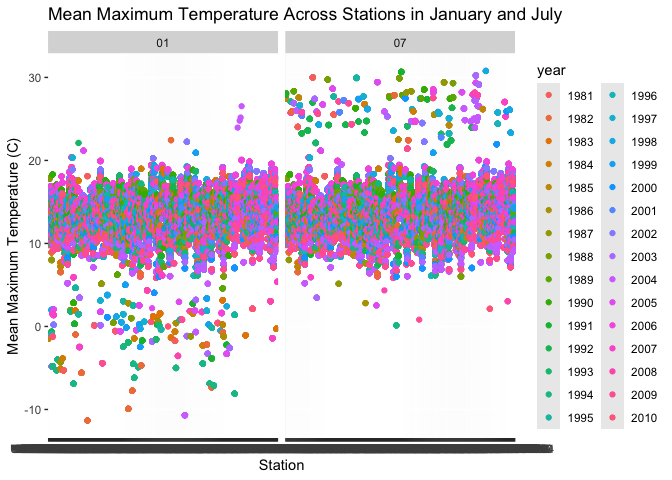
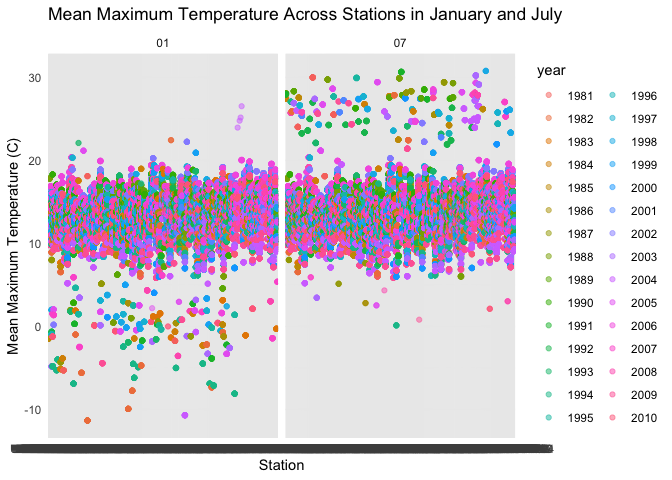
First attempt at problem 2. Imported and merge NHANES dataset. Made a reader-friendly table and a three-panel plot.

Changed region(s): [[0.0625, 0.0625, 0.8438, 0.9375], [0.875, 0.1562, 0.9375, 0.9062], [0.2188, 0.625, 0.2812, 0.6875]]

diff --git a/p8105_hw3_mh4589.md b/p8105_hw3_mh4589.md
@@ -3,25 +3,6 @@ p8105_hw3_mh4589
 My An Huynh
 2024-10-04
 
-Do some data cleaning. Create separate variables for year, month, and
-day. Ensure observations for temperature, precipitation, and snowfall
-are given in reasonable units. For snowfall, what are the most commonly
-observed values? Why? Make a two-panel plot showing the average max
-temperature in January and in July in each station across years. Is
-there any observable / interpretable structure? Any outliers? Make a
-two-panel plot showing (i) tmax vs tmin for the full dataset (note that
-a scatterplot may not be the best option); and (ii) make a plot showing
-the distribution of snowfall values greater than 0 and less than 100
-separately by year.
-
-The dataset NY NOAA provies information on temperature, snowfall, snow
-depth and precipitation everyday starting from 1981 at different weather
-stations in NY. There is extensive
-
-There are `nrow(ny_noaa)` rows and `ncol(ny_noaa)` columns. The most
-common snowfall is 0. This is because snow is commonly observed on
-certain days during winter months, but not the rest of the year.
-
 ``` r
 ny_noaa_df <- ny_noaa |> 
   separate(date, into = c("year", "month", "day"), sep = "-")
@@ -33,8 +14,15 @@ snow_mode =
   slice(1)
 ```
 
-Make a two-panel plot showing the average max temperature in January and
-in July in each station across years.
+The dataset NY NOAA provies information on temperature, snowfall, snow
+depth and precipitation everyday starting from 1981 at different weather
+stations in NY. Most of the data values came back
+
+There are `nrow(ny_noaa)` rows and `ncol(ny_noaa)` columns. The most
+common snowfall is 0. This is because snow is commonly observed on
+certain days during winter months, but not the rest of the year. Make a
+two-panel plot showing the average max temperature in January and in
+July in each station across years.
 
 ``` r
 ny_noaa_df |> 
@@ -49,27 +37,35 @@ ny_noaa_df |>
     mean_tmax = mean(tmax, na.rm = TRUE)
   ) |> 
   ggplot(aes(x = id, y = mean_tmax, color = year)) + 
-  geom_point() + 
-  facet_wrap(~ month) +
+  geom_point(aes(group = year), alpha = 0.5) +
+  facet_grid(~month) +
   labs(
     title = "Mean Maximum Temperature Across Stations in January and July",
     x = "Station",
     y = "Mean Maximum Temperature (C)"
-)
+) +
+  theme_minimal()
 ```
 
 ![](p8105_hw3_mh4589_files/figure-gfm/unnamed-chunk-2-1.png)<!-- -->
 
 ``` r
 ny_noaa_df |> 
-  ggplot()
+  filter(snow > 0, snow < 100) |> 
+  ggplot(aes(x = tmax, y = tmin)) 
 ```
 
-![](p8105_hw3_mh4589_files/figure-gfm/unnamed-chunk-2-2.png)<!-- -->
+![](p8105_hw3_mh4589_files/figure-gfm/unnamed-chunk-3-1.png)<!-- -->
+
+## Problem 2
+
+Load, tidy, merge and organize the acceleration and demographic
+datasets.
 
 ``` r
 accel_df =
-  read_csv("data/nhanes_accel.csv") 
+  read_csv("data/nhanes_accel.csv") |> 
+  janitor::clean_names()
 ```
 
     ## Rows: 250 Columns: 1441
@@ -79,3 +75,100 @@ accel_df =
     ## 
     ## ℹ Use `spec()` to retrieve the full column specification for this data.
     ## ℹ Specify the column types or set `show_col_types = FALSE` to quiet this message.
+
+``` r
+covar_df = 
+  read_csv("data/nhanes_covar.csv", skip = 4) |> 
+  janitor::clean_names() |> 
+  mutate(
+    sex = factor(sex),
+    education = factor(education)
+  )
+```
+
+    ## Rows: 250 Columns: 5
+    ## ── Column specification ────────────────────────────────────────────────────────
+    ## Delimiter: ","
+    ## dbl (5): SEQN, sex, age, BMI, education
+    ## 
+    ## ℹ Use `spec()` to retrieve the full column specification for this data.
+    ## ℹ Specify the column types or set `show_col_types = FALSE` to quiet this message.
+
+``` r
+nhanes_df = 
+  left_join(covar_df, accel_df, by = "seqn") |> 
+  filter(age > 21) |> 
+  drop_na(education, bmi, age, sex)
+```
+
+Created a reader-friendly table using `kable()` showing teh number of
+men and women in each education category, and created a boxplot showing
+the dsitribution of age for men and women across each education
+category. For the table, category 3 in education has the most
+participants. There are more male participants whose education is in
+category 2 compared to female.
+
+``` r
+nhanes_df |> 
+  group_by(education, sex) |> 
+  summarize(
+    count = n()
+  ) |> 
+  pivot_wider(
+    names_from = education,
+    values_from = count
+  ) |> 
+  knitr::kable(
+    caption = "Number of men and women in each education category"
+  ) 
+```
+
+    ## `summarise()` has grouped output by 'education'. You can override using the
+    ## `.groups` argument.
+
+| sex |   1 |   2 |   3 |
+|:----|----:|----:|----:|
+| 1   |  27 |  34 |  54 |
+| 2   |  28 |  23 |  59 |
+
+Number of men and women in each education category
+
+``` r
+nhanes_df |> 
+  ggplot(aes(x = education, y = age, fill = sex)) + 
+  geom_boxplot() +
+  labs(
+    title = "Distribution of Age by Sex and Education",
+    x = "Education Category",
+    y = "Age"
+  ) +
+  theme_minimal()
+```
+
+![](p8105_hw3_mh4589_files/figure-gfm/unnamed-chunk-5-1.png)<!-- -->
+
+Created a new `total_activity` variable that aggregates activity level
+across 1440 minutes for each participant. Made a plot of total activity
+against age and included a trend line. The overall trend indicates that
+there is less activity as age increases for all participants, male and
+female and across 3 education groups. For education groups
+
+``` r
+nhanes_df |> 
+  mutate(
+    total_activity = rowSums(across(min1:min1440), na.rm = TRUE)
+  ) |> 
+  ggplot(aes(x = age, y = total_activity, color = sex))+
+  geom_point(alpha = 0.5)+
+  geom_smooth(se = TRUE) +
+  facet_grid(~education) + 
+  labs(
+    title = "Total Activity vs Age across Sex and Education Level",
+    x = "Age (years)",
+    y = "Total Activity"
+  )
+```
+
+    ## `geom_smooth()` using method = 'loess' and formula = 'y ~ x'
+
+![](p8105_hw3_mh4589_files/figure-gfm/unnamed-chunk-6-1.png)<!-- -->
